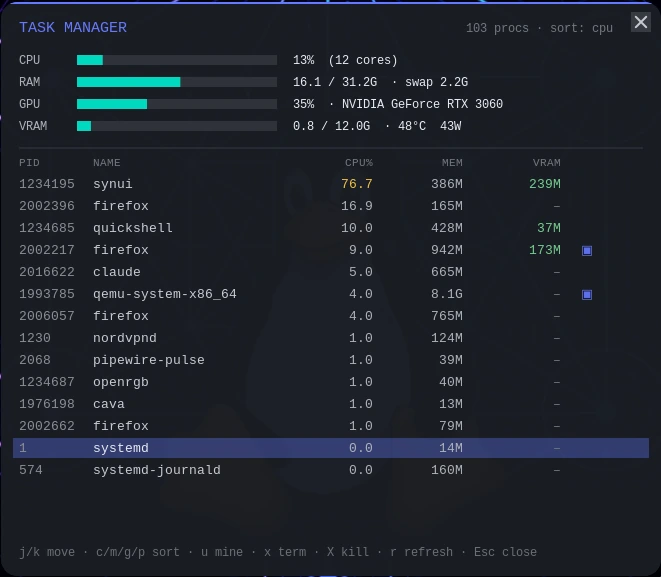
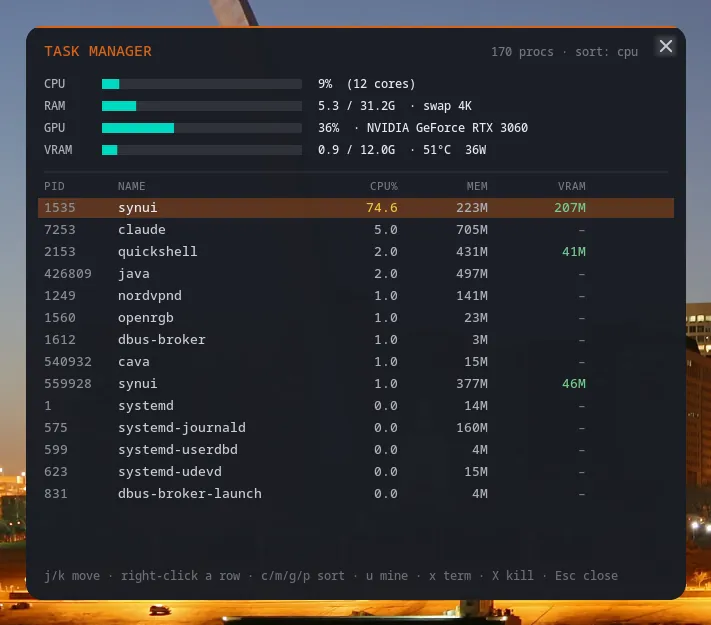
Re-shoot the gallery on 0.2.9.4, and give the CRT frame its phosphor
⚠ THE CRT SHOT HAD NO AMBER IN IT. `mono=0` leaves the frame in colour, so
`phosphor=amber` had nothing to tint and the picture was scanlines over an
ordinary desktop — the caption said amber phosphor and the image did not.
Re-taken on velle's own tuning (scanline .8, curvature .25, aberration .4,
glitch .6, mono 1.0, bloom .1, lift 1.0) with phosphor=amber, which is what
a phosphor actually looks like.

⛔ AND ITS ?v= HAD TO MOVE TO 2026-08-25b. The file changed after it had
already been published under ...-25, and /assets/* is immutable for a
YEAR — anyone who loaded the page in between would have kept the
colourless version until 2027.

Nine of the thirteen gallery shots re-taken the same way as the hero:
nested headless synui, stock Prism, private D-Bus, hermetic home. What
that catches, beyond three releases of drift —

- software opened on THIS box's pending updates: two rows in a
  1677x912 window, one of them synui 496 → 499. It is the curated list
  now (105 apps, with the AppStream icons this cycle added).
- the file manager was a picture of the RIG: bar.log, at-spi, dbus-1 and
  the compositor's socket dir, because HOME was the runtime dir. Split
  them, and put the fake home somewhere whose breadcrumb reads like one.
- every client window came out full-screen, because synui seeds each
  desktop to tiling and one window fills it. layouts.state → floating,
  and the output down to 1280x800 so applications get a window their
  content fills.
[…]

diff --git a/public/index.html b/public/index.html
@@ -437,7 +437,7 @@
         <img class="crt-off-img" src="/assets/synui-desktop.webp?v=2026-08-25"
              width="1920" height="1080" loading="lazy" decoding="async"
              alt="The SynapseOS desktop: the synui Wayland compositor with its quickshell status bar, the control panel over the shipped wallpaper, and the dock.">
-        <img class="crt-on-img" src="/assets/synui-crt.webp?v=2026-08-25"
+        <img class="crt-on-img" src="/assets/synui-crt.webp?v=2026-08-25b"
              width="1920" height="1080" loading="lazy" decoding="async"
              alt="The same desktop with the CRT post-process pass on: amber phosphor, scanlines, a curved screen and chromatic aberration.">
         <label class="crt-toggle" for="crt-on">
@@ -528,7 +528,7 @@
         <li class="slide" aria-label="Control panel (1 of 13)">
           <figure>
             <span class="media">
-              <img src="/assets/shots/control-panel.webp" width="863" height="572" loading="eager" fetchpriority="high" decoding="async"
+              <img src="/assets/shots/control-panel.webp?v=2026-08-25" width="911" height="623" loading="eager" fetchpriority="high" decoding="async"
                    alt="Control panel — Every setting the compositor owns, on one keystroke. Generated from the live bind table, so it cannot drift from what the keys actually do.">
             </span>
             <figcaption><b>Control panel</b><span>Every setting the compositor owns, on one keystroke. Generated from the live bind table, so it cannot drift from what the keys actually do.</span></figcaption>
@@ -539,7 +539,7 @@
         <li class="slide" aria-label="Software (2 of 13)">
           <figure>
             <span class="media">
-              <img src="/assets/shots/software.webp" width="841" height="715" loading="lazy" decoding="async"
+              <img src="/assets/shots/software.webp?v=2026-08-25" width="1135" height="651" loading="lazy" decoding="async"
                    alt="Software — synpkg — a libalpm front end in C, with the curated SynapseOS list beside the AUR and Flathub.">
             </span>
             <figcaption><b>Software</b><span>synpkg — a libalpm front end in C, with the curated SynapseOS list beside the AUR and Flathub.</span></figcaption>
@@ -550,7 +550,7 @@
         <li class="slide" aria-label="Files (3 of 13)">
           <figure>
             <span class="media">
-              <img src="/assets/shots/files.webp" width="840" height="713" loading="lazy" decoding="async"
+              <img src="/assets/shots/files.webp?v=2026-08-25" width="1135" height="651" loading="lazy" decoding="async"
                    alt="Files — synfiles, with the capacity of every device in the sidebar and tabs across the top.">
             </span>
             <figcaption><b>Files</b><span>synfiles, with the capacity of every device in the sidebar and tabs across the top.</span></figcaption>
@@ -561,7 +561,7 @@
         <li class="slide" aria-label="Settings (4 of 13)">
           <figure>
             <span class="media">
-              <img src="/assets/shots/settings.webp" width="840" height="713" loading="lazy" decoding="async"
+              <img src="/assets/shots/settings.webp?v=2026-08-25" width="1135" height="651" loading="lazy" decoding="async"
                    alt="Settings — What the kernel sees for each connector, beside what the compositor is actually driving. The two disagreeing is a bug you can now see.">
             </span>
             <figcaption><b>Settings</b><span>What the kernel sees for each connector, beside what the compositor is actually driving. The two disagreeing is a bug you can now see.</span></figcaption>
@@ -583,7 +583,7 @@
         <li class="slide" aria-label="Task manager (6 of 13)">
           <figure>
             <span class="media">
-              <img src="/assets/shots/task-manager.webp" width="661" height="577" loading="lazy" decoding="async"
+              <img src="/assets/shots/task-manager.webp?v=2026-08-25" width="711" height="625" loading="lazy" decoding="async"
                    alt="Task manager — CPU, memory, GPU and VRAM, per process — on Ctrl+Alt+Delete.">
             </span>
             <figcaption><b>Task manager</b><span>CPU, memory, GPU and VRAM, per process — on Ctrl+Alt+Delete.</span></figcaption>
@@ -594,7 +594,7 @@
         <li class="slide" aria-label="Arcade (7 of 13)">
           <figure>
             <span class="media">
-              <img src="/assets/shots/arcade.webp" width="842" height="714" loading="lazy" decoding="async"
+              <img src="/assets/shots/arcade.webp?v=2026-08-25" width="1135" height="651" loading="lazy" decoding="async"
                    alt="Arcade — MangoHud, controller mapping, per-game window fit and the shortcuts that drive them.">
             </span>
             <figcaption><b>Arcade</b><span>MangoHud, controller mapping, per-game window fit and the shortcuts that drive them.</span></figcaption>
@@ -627,7 +627,7 @@
         <li class="slide" aria-label="Arsenal (10 of 13)">
           <figure>
             <span class="media">
-              <img src="/assets/shots/arsenal.webp" width="840" height="713" loading="lazy" decoding="async"
+              <img src="/assets/shots/arsenal.webp?v=2026-08-25" width="1135" height="651" loading="lazy" decoding="async"
                    alt="Arsenal — Five thousand BlackArch tools, by category, installed on demand rather than shipped.">
             </span>
             <figcaption><b>Arsenal</b><span>Five thousand BlackArch tools, by category, installed on demand rather than shipped.</span></figcaption>
@@ -638,7 +638,7 @@
         <li class="slide" aria-label="Updates (11 of 13)">
           <figure>
             <span class="media">
-              <img src="/assets/shots/updates.webp" width="841" height="714" loading="lazy" decoding="async"
+              <img src="/assets/shots/updates.webp?v=2026-08-25" width="1135" height="651" loading="lazy" decoding="async"
                    alt="Updates — Source-revision aware: it names what an ISO upgrade would bring that a package update cannot.">
             </span>
             <figcaption><b>Updates</b><span>Source-revision aware: it names what an ISO upgrade would bring that a package update cannot.</span></figcaption>
@@ -660,7 +660,7 @@
         <li class="slide" aria-label="Fourteen themes (13 of 13)">
           <figure>
             <span class="media">
-              <img src="/assets/shots/themes.webp" width="1600" height="1329" loading="lazy" decoding="async"
+              <img src="/assets/shots/themes.webp?v=2026-08-25" width="511" height="967" loading="lazy" decoding="async"
                    alt="Fourteen themes — The same window across four of them. Every application on the system reads the palette, not just the bar.">
             </span>
             <figcaption><b>Fourteen themes</b><span>The same window across four of them. Every application on the system reads the palette, not just the bar.</span></figcaption>
